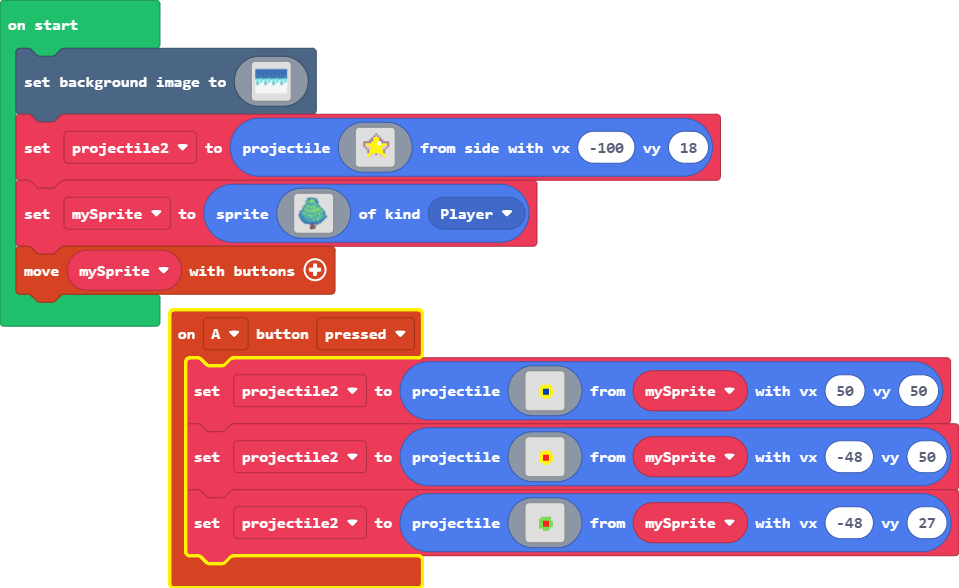
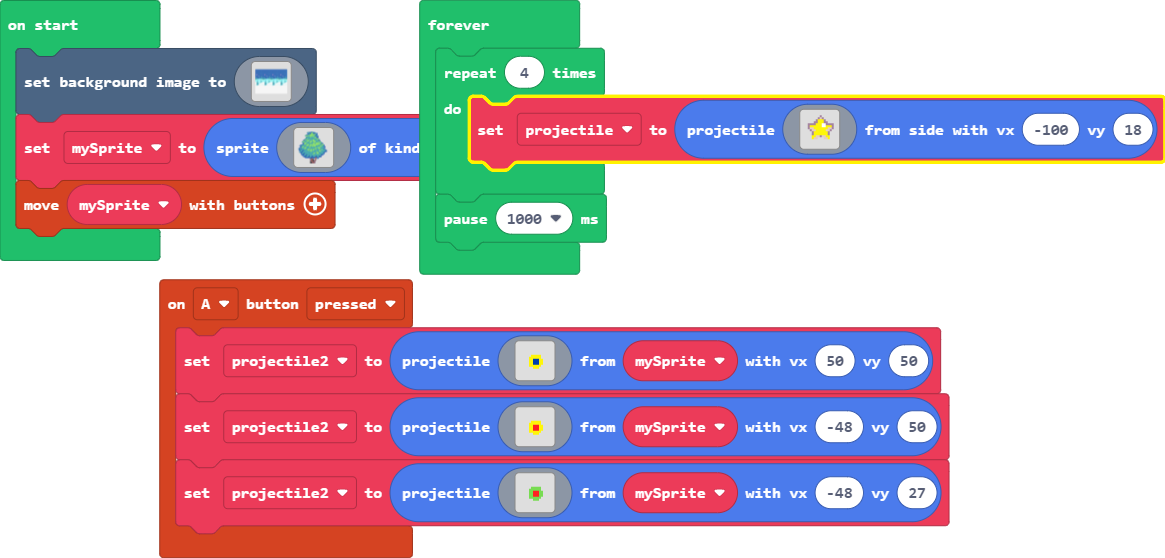
Update main.blocks, main.ts

diff --git a/main.ts b/main.ts
@@ -54,8 +54,9 @@ controller.A.onEvent(ControllerButtonEvent.Pressed, function () {
         . . . . . . . . . . . . . . . . 
         `, mySprite, -48, 27)
 })
-let mySprite: Sprite = null
+let projectile: Sprite = null
 let projectile2: Sprite = null
+let mySprite: Sprite = null
 scene.setBackgroundImage(img`
     8888888888888888888888888888888888888888888888888888888888888888888888888888888888888888888888888888888888888888888888888888888888888888888888888888888888888888
     8888888888888888888888888888888888888888888888888888888888888888888888888888888888888888888888888888888888888888888888888888888888888888888888888888888888888888
@@ -178,24 +179,6 @@ scene.setBackgroundImage(img`
     1111111111111111111111111111111111111111111111111111111111111111111111111111111111111111111111111111111111111111111111111111111111111111111111111111111111111111
     1111111111111111111111111111111111111111111111111111111111111111111111111111111111111111111111111111111111111111111111111111111111111111111111111111111111111111
     `)
-projectile2 = sprites.createProjectileFromSide(img`
-    . . . . . . . . . . . . . . . . 
-    . . . . . . . . b . . . . . . . 
-    . . . . . . . b d b . . . . . . 
-    . . . . . . b 5 5 5 b . . . . . 
-    . . . . . b b 5 5 5 b b . . . . 
-    . . b b b b 5 5 5 1 1 b b b b . 
-    . . b 5 5 5 5 5 5 1 1 5 5 5 b . 
-    . . b d d 5 5 5 5 5 5 5 d d b . 
-    . . . b d d 5 5 5 5 5 d d b . . 
-    . . . . b 5 5 5 5 5 5 5 b . . . 
-    . . . . b 5 5 5 5 5 5 5 b . . . 
-    . . . . 5 5 d d b d d 5 5 . . . 
-    . . . . 5 d d . . . d d 5 . . . 
-    . . . . . . . . . . . . . . . . 
-    . . . . . . . . . . . . . . . . 
-    . . . . . . . . . . . . . . . . 
-    `, -100, 18)
 mySprite = sprites.create(img`
     ................86..................
     ...........6688867886...............
@@ -240,3 +223,26 @@ mySprite = sprites.create(img`
     ...............ffceec...............
     `, SpriteKind.Player)
 controller.moveSprite(mySprite)
+forever(function () {
+    for (let index = 0; index < 4; index++) {
+        projectile = sprites.createProjectileFromSide(img`
+            . . . . . . . . . . . . . . . . 
+            . . . . . . . . b . . . . . . . 
+            . . . . . . . b d b . . . . . . 
+            . . . . . . b 5 5 5 b . . . . . 
+            . . . . . b b 5 5 5 b b . . . . 
+            . . b b b b 5 5 5 1 1 b b b b . 
+            . . b 5 5 5 5 5 5 1 1 5 5 5 b . 
+            . . b d d 5 5 5 5 5 5 5 d d b . 
+            . . . b d d 5 5 5 5 5 d d b . . 
+            . . . . b 5 5 5 5 5 5 5 b . . . 
+            . . . . b 5 5 5 5 5 5 5 b . . . 
+            . . . . 5 5 d d b d d 5 5 . . . 
+            . . . . 5 d d . . . d d 5 . . . 
+            . . . . . . . . . . . . . . . . 
+            . . . . . . . . . . . . . . . . 
+            . . . . . . . . . . . . . . . . 
+            `, -100, 18)
+    }
+    pause(1000)
+})
